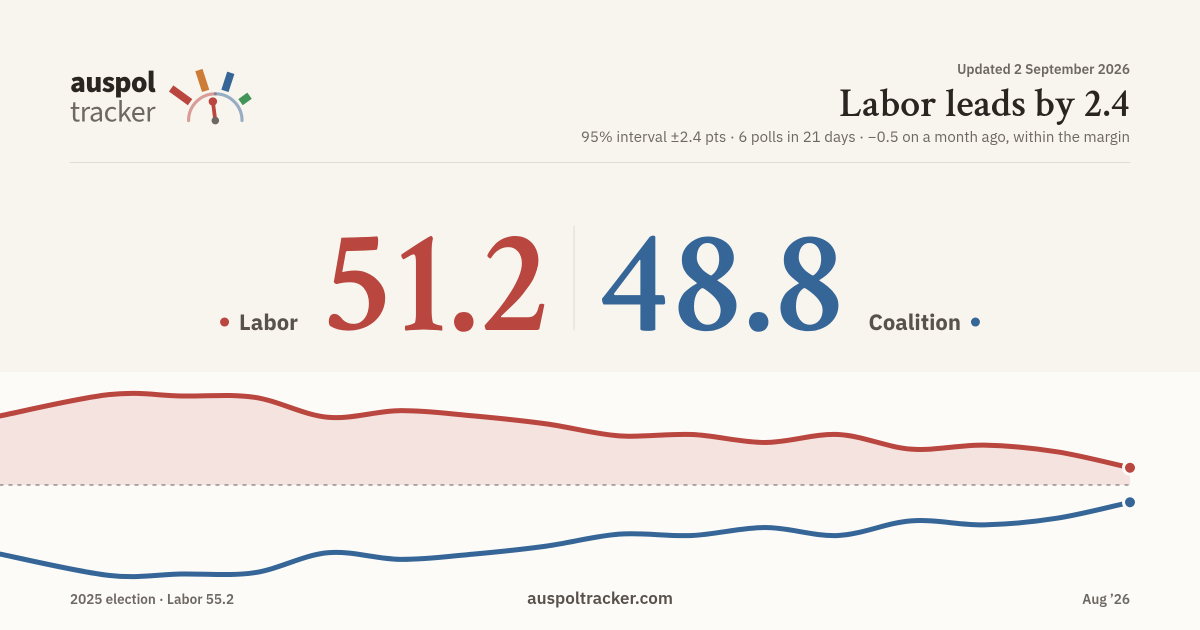
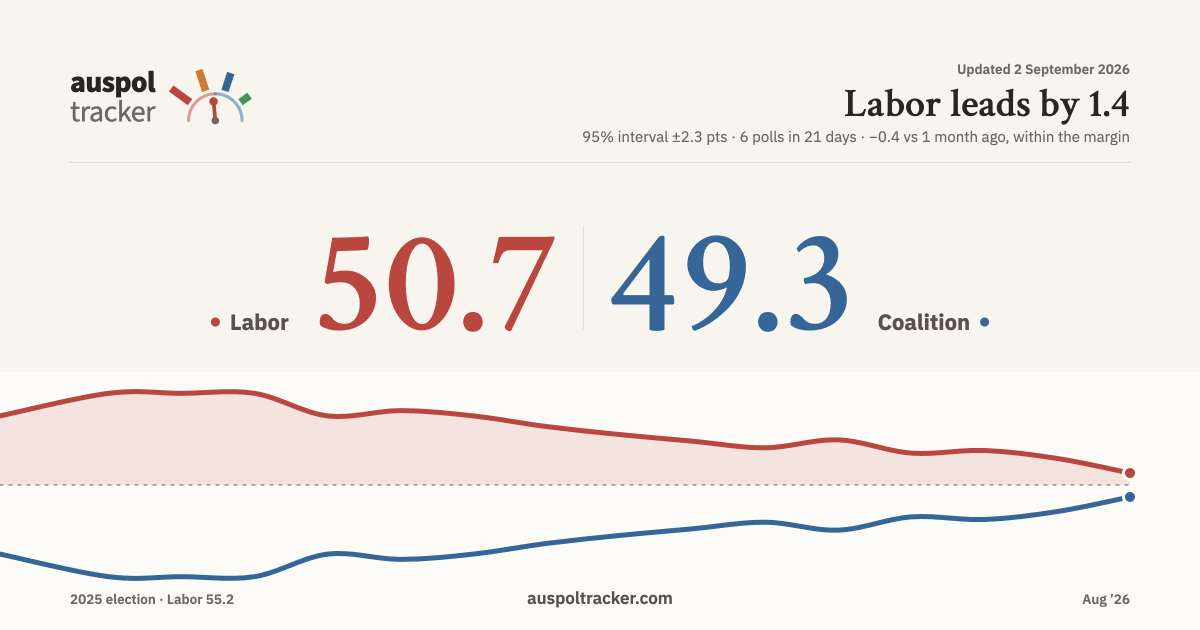
Redraw the share card automatically when the headline figures move
The card stamp was date-only, so figure-only changes (nowcast decay,
cured waves, PR-merged filings) left a stale card the build called
current, and nothing rendered outside poll-landing wrappers.

- make-card.js: stamp the card with the figure strings it displays
- build.mjs: write assets/auspol-latest.json (what the card SHOULD
  say), warn on same-date figure drift, key the og:image cache-bust
  on date+figure-hash so a redraw is always a new URL to scrapers
- render-card.mjs: pre-launch gate against auspol-latest.json - a
  current card exits in under a second without touching Chrome
- git-push-main.sh: refresh_site owns build -> render -> restamp
  order (the old render-before-build shipped cards one wave stale)
- all 10 house wrappers + prediction-refresh: use refresh_site and
  commit the card trio; the daily prediction refresh is the <=24h
  backstop for drift nobody else renders for
- prediction-refresh.yml / newspoll-watch.yml: puppeteer install +
  CHROME env so the gated render works in those jobs too

diff --git a/.build/newtracker/make-card.js b/.build/newtracker/make-card.js
@@ -345,7 +345,15 @@
      being corrected moves `published` and not `updated`, which is a real edit
      in this repo's history, and build.mjs would have called the card current
      while it displayed the old date. */
-  window.__auspolCard = { png, publishedISO: L.publishedISO };
+  /* The fig block lets render-card's staleness gate tell "date is fresh but
+     what the card SHOWS has moved" (decay drift, a cured wave) without
+     launching Chrome. Same shape build.mjs writes into
+     assets/auspol-latest.json – mirror any change in both files. */
+  window.__auspolCard = { png, publishedISO: L.publishedISO, fig: {
+    alp: L.alp2pp.toFixed(1), lnp: L.lnp2pp.toFixed(1),
+    ci: L.alp2ppCi95.toFixed(1),
+    n: L.method.nPolls, win: L.method.windowDays,
+    mom: (L.alp2pp - L.alp2ppPrev).toFixed(1), sig: !!L.changeSig } };
   console.log("card drawn for data dated " + L.publishedISO
               + " – put this in assets/auspol-card.json");
   const a = document.createElement("a");

diff --git a/.matilda/skills/auto-skill-auspol-share-card/SKILL.md b/.matilda/skills/auto-skill-auspol-share-card/SKILL.md
@@ -1,0 +1,86 @@
+---
+name: auspol-share-card
+description: auspol-tracker — the og:image sharecard pipeline end-to-end (make-card.js design-in-page, render-card.mjs headless-Chrome driver, build.mjs stamp check + og:image cache-bust, wrapper/CI automation). Staleness is DATE+FIGURE (publishedISO + a fig block of the card's displayed strings); figure-only changes (decay drift, "cure" corrections, PR-merged waves) redraw via render-card's pre-launch gate, refresh_site owns build→render→restamp order in every wrapper, and the daily prediction-refresh backstop (puppeteer+CHROME wired) self-heals anything missed ≤24h. Shipped 2026-09-07.
+source: auto-skill
+extracted_at: '2026-09-07T00:00:00.000Z'
+---
+
+# The share card (assets/auspol-card.png) pipeline
+
+## Components and why they're shaped this way
+
+- **`.build/newtracker/make-card.js`** — the ONLY place the card is designed. Runs *inside
+  the built page*: reads `window.AUSPOL` (so the card can't contradict the page) and draws
+  with the site's own webfonts (canvas text only picks up fonts a document already loaded).
+  Exposes `window.__auspolCard = { png, publishedISO, fig }` (fig = the displayed
+  figure strings; shape mirrored in build.mjs's cardFigs) and ends by clicking a
+  download (render-card.mjs neuters the click).
+- **`.build/newtracker/render-card.mjs`** — the driver. Serves the repo on an ephemeral
+  127.0.0.1 port, opens `index.html` in headless Chrome via **puppeteer-core** (the repo's
+  one declared dependency; resolved from repo `node_modules` then `~/node_modules`),
+  waits for `window.AUSPOL.latest` AND for three named faces to load (Crimson Text, IBM
+  Plex Sans, Source Sans 3 — refuses to draw rather than fall back to system fonts),
+  writes `assets/auspol-card.png` + stamp `assets/auspol-card.json`
+  (`{publishedISO, fig}` — fig is the block of figure strings the card shows).
+  Chrome found via `CHROME` env, else the hardcoded macOS
+  `/Applications/Google Chrome.app/...` path; missing either dep = helpful `die(1)`
+  pointing at the manual console procedure in make-card.js's header.
+- **`.build/newtracker/build.mjs` (~L489-533)** — cannot draw the card (plain-node
+  toolchain, deliberately; build.mjs never imports render-card). It reads the stamp,
+  compares against `grabLatest().publishedISO` (`grabLatest` re-parses the `latest` const
+  out of the 9f09dca2 dataset asset — a string-split contract, see
+  auspol-build-pipeline) and its fig via the local `cardFigs()` (shape mirrored in
+  make-card.js — edit both together), warns on mismatch locally, and **hard-fails
+  (exit 1) when `CI && GITHUB_WORKFLOW === "tests"`** on DATE mismatch only —
+  figure drift is advisory-warn, healing via the gated re-render below. build.mjs
+  also writes **`assets/auspol-latest.json`** (`{publishedISO, fig}`), the machine-readable
+  "what the card SHOULD say" sidecar that render-card's gate compares the drawn
+  stamp against. `og:image` is cache-busted `?v=${(cardStamp || dataStamp) + figKey}`
+  where figKey is a sha1-8 of the drawn stamp's fig block (absent for pre-fig
+  stamps) — key comes from the STAMP, so the URL changes exactly when the card's
+  pixels change. cardAlt/meta descriptions quote the same `latest` figures.
+
+## Automation (refresh_site + figure gate, shipped 2026-09-07)
+
+- **`refresh_site()` in `.build/git-push-main.sh`** owns the ORDER: build (writes
+  auspol-latest.json) → render-card (gated, best-effort — failure WARNs, never
+  blocks) → build again (restamps og:image with the fresh stamp/figKey). An
+  earlier design rendered BEFORE the build, so cards/stamps shipped one wave
+  stale (`ff20d9a`: stamp 08-31, data 09-02); never reintroduce render-before-build.
+- All **10 `.build/*-updater.sh` house wrappers** call `refresh_site` between
+  validate and commit, and stage `assets/auspol-card.png assets/auspol-card.json
+  assets/auspol-latest.json` (also passed to `push_main` for the rebase-amend path).
+  `.build/prediction-refresh.sh` does the same — that daily pipeline is the ≤24h
+  backstop for figure-only drift and PR-merged filings nobody rendered for.
+- **`render-card.mjs` staleness gate**: before launching Chrome it reads the drawn
+  stamp `assets/auspol-card.json` against `assets/auspol-latest.json`
+  (date AND fig JSON compared); match → exit 0 "card current" in <1s, no Chrome
+  (~20s saved per slot). Missing sidecar/stamp → draws (fail-open, correct after a
+  fresh clone).
+- CI prerequisites: `poll-agent.yml`, `roymorgan-update.yml`, `coverage-check.yml`,
+  **`prediction-refresh.yml` (update + repair) and `newspoll-watch.yml` (filing
+  agent)** carry `npm ci --ignore-scripts --no-audit --no-fund || true` plus
+  `CHROME: /usr/bin/google-chrome`. Ubuntu images ship Chrome at that path.
+
+## Fixed gaps (were open until 2026-09-07)
+
+1. ~~Staleness was date-only~~ — fig block now rides the stamp end-to-end
+   (make-card → render-card → build.mjs advisory + og:image key).
+2. ~~No daily backstop~~ — prediction-refresh runs refresh_site daily; drift
+   heals ≤24h.
+3. ~~Unconditional renders~~ — the pre-launch gate makes current cards a free
+   no-op.
+
+Small print: demosau/essential updaters have early "confirm-skip" build+commit
+blocks (`git add ... || true`) that rebuild index.html WITHOUT rendering —
+cosmetic, heals on the next wave or the daily backstop. `news24-updater.sh` has
+no CI twin, so its renders happen only via the local launchd Mac (Chrome at the
+default path).
+
+## Related
+
+- **auspol-build-pipeline** — build.mjs/gen-data.mjs map (grabLatest, writeAtomic;
+  auspol-latest.json now exists but the other string-split consumers remain).
+- **launchd-scheduled-data-pipeline** — wrapper conventions (best-effort warn pattern,
+  push_main file list, slot lock).
+- **ci-main-writer-races** — main-writers serialisation that stamps/pushes ride on.
